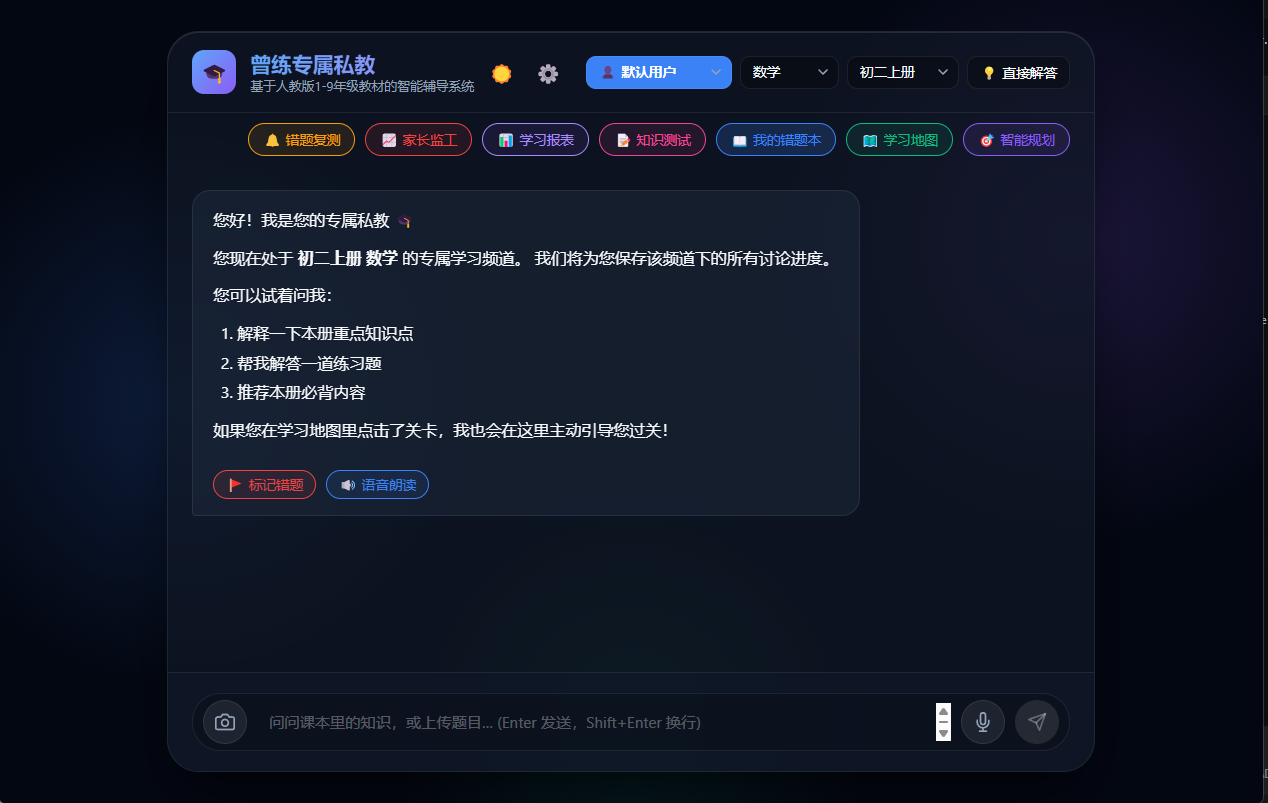
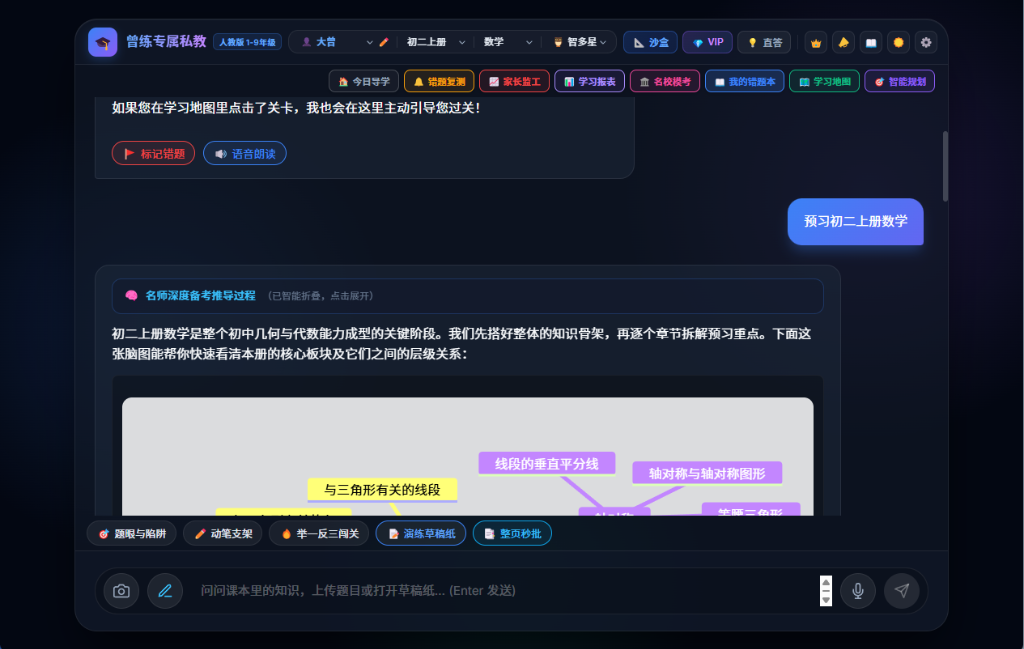
docs: revamp README and showcase latest product UI, APK release and feature matrix

diff --git a/README_en.md b/README_en.md
@@ -1,112 +1,134 @@
 <div align="center">
 
-# 🎓 EduAgent : AI Tutor for K-9 Education
+# 🎓 ZengLian AI Tutor (曾练专属私教)
 
-**An Open-Source, RAG-Powered AI Tutoring System specifically designed for K-9 Students**
+**The Next-Gen Open-Source RAG AI Tutoring System specifically tailored for K-9 Education**
+*Comprehensive K-9 Textbooks Knowledge Base · Dual-Modal Adaptive Mind Engines · Closed-Loop Learning System*
 
-[![React](https://img.shields.io/badge/Frontend-React-blue?style=flat-square&logo=react)](https://reactjs.org/)
-[![Node.js](https://img.shields.io/badge/Backend-Node.js-green?style=flat-square&logo=node.js)](https://nodejs.org/)
-[![Python](https://img.shields.io/badge/RAG-Python-yellow?style=flat-square&logo=python)](https://python.org/)
-[![Database](https://img.shields.io/badge/Vector_DB-LanceDB-orange?style=flat-square)](https://lancedb.com/)
+<br/>
+
+[![Download APK](https://img.shields.io/badge/📱_Android_APK-v1.0.0_Download_Now-2ea44f?style=for-the-badge&logo=android)](https://github.com/Zenglian990/AI_Tutor_Release/releases/download/v1.0.0-apk/ZengLian_AI_Tutor_v1.0.0.apk)
+[![Release](https://img.shields.io/github/v/release/Zenglian990/AI_Tutor_Release?style=for-the-badge&color=blue)](https://github.com/Zenglian990/AI_Tutor_Release/releases/tag/v1.0.0-apk)
+
+<br/>
+
+[![React](https://img.shields.io/badge/Frontend-React_18-blue?style=flat-square&logo=react)](https://reactjs.org/)
+[![Node.js](https://img.shields.io/badge/Backend-Node.js_Express-green?style=flat-square&logo=node.js)](https://nodejs.org/)
+[![Android](https://img.shields.io/badge/Mobile-Capacitor_Android-3DDC84?style=flat-square&logo=android)](https://capacitorjs.com/)
+[![RAG](https://img.shields.io/badge/RAG-LanceDB_Vector-orange?style=flat-square)](https://lancedb.com/)
+[![LLM](https://img.shields.io/badge/AI_Engine-Gemini_Flash-brightgreen?style=flat-square)](https://deepmind.google/technologies/gemini/)
 [![License: MIT](https://img.shields.io/badge/License-MIT-purple?style=flat-square)](https://opensource.org/licenses/MIT)
-[![CI Pipeline](https://github.com/Zenglian990/AI_Tutor_Release/actions/workflows/ci.yml/badge.svg)](https://github.com/Zenglian990/AI_Tutor_Release/actions)
 
-[**中文版**](README.md) | [**English**](README_en.md)
+[**中文文档**](README.md) | [**English**](README_en.md) | [**📱 APK Download**](https://github.com/Zenglian990/AI_Tutor_Release/releases/tag/v1.0.0-apk)
 
-*"Education equality is not just a slogan. We aim to bring top-tier AI private tutors to every ordinary household."*
+> *"Education equality is not just a slogan. We aim to bring top-tier AI private tutors to every ordinary household."*
 
 </div>
+
+---
+
+## 📱 Instant Experience on Android APK (Recommended)
+
+No complex development environments required. Install the native APK directly on your phone to experience the **immersive 9:16 portrait AI Tutor**:
+
+- **📥 Direct APK Download**: [ZengLian_AI_Tutor_v1.0.0.apk (~8.8MB)](https://github.com/Zenglian990/AI_Tutor_Release/releases/download/v1.0.0-apk/ZengLian_AI_Tutor_v1.0.0.apk)
+- **🏷 GitHub Releases**: [View Release Notes & Versions](https://github.com/Zenglian990/AI_Tutor_Release/releases/tag/v1.0.0-apk)
+- **✨ Mobile Highlights**: Strict 9:16 full-screen portrait lock, edge-to-edge notch screen support, plug-and-play tutoring.
 
 ---
 
 ## 📸 UI Showcase
 
 <div align="center">
-  <img src="docs/assets/ui-main.png" alt="UI Main" width="800"/>
+  <h3>🖥 1. Modern Guided Tutoring & Concept Mind Maps</h3>
+  <img src="docs/assets/ui-main.png" alt="Guided Tutoring & Main Interface" width="850"/>
+  <p><i>Deep step-by-step guidance, hierarchical mind maps, instant traps & clues breakdown, live scratchpad</i></p>
   <br/>
-  <img src="docs/assets/ui-settings.png" alt="UI Settings" width="800"/>
+
+  <h3>🗺 2. Interactive Gamified Learning Map</h3>
+  <img src="docs/assets/ui-map.png" alt="Gamified Learning Map" width="850"/>
+  <p><i>Chapter exploration islands, progressive stage unlock, turning repetitive homework into an adventure</i></p>
   <br/>
-  <img src="docs/assets/ui-levels.png" alt="UI Levels" width="800"/>
+
+  <h3>🧭 3. Semester Roadmap & Boss Stages</h3>
+  <img src="docs/assets/ui-roadmap.png" alt="Semester Roadmap" width="850"/>
+  <p><i>Full semester dungeon overview with clear targets, core theorems, and rigorous geometric proof advice</i></p>
+  <br/>
+
+  <h3>📝 4. Smart Mistake Notebook & Targeted Variation Sheets</h3>
+  <img src="docs/assets/ui-mistakes.png" alt="Mistake Notebook & Practice Sheets" width="850"/>
+  <p><i>Ebbinghaus review schedules, one-click printable A4 layout, AI-generated variant exercises</i></p>
+  <br/>
+
+  <h3>📊 5. Parent Supervision & Weekly Learning Diagnostics</h3>
+  <img src="docs/assets/ui-parent.png" alt="Parent Supervision Dashboard" width="850"/>
+  <p><i>Actionable analytics, weak spot identification, customized parenting guidance, printable teacher notes</i></p>
+  <br/>
+
+  <h3>🎨 6. Social Achievement Posters for WeChat / Social Media</h3>
+  <img src="docs/assets/ui-poster.png" alt="Social Achievement Poster" width="480"/>
+  <p><i>High-aesthetic social poster rendering with personal QR codes and motivational quotes</i></p>
 </div>
 
 ---
 
+## 🌟 Core Features
 
-## English Version
+**ZengLian AI Tutor** eliminates the drawbacks of traditional "homework search engines" that encourage rote copying. Utilizing large language models and LanceDB textbook vector knowledge bases, it establishes a true **"Learn - Practice - Test - Guide - Manage" closed-loop tutoring agent**:
 
-### 🎯 Overview
-**EduAgent** is an open-source, RAG-powered AI tutoring system specifically designed for K-9 students. Utilizing Google's Gemini models and LanceDB, it provides an adaptive, localized, and interactive educational experience.
+- 🧠 **Dual-Modal Teaching Engines for Grades 1-9**:
+  - **Grades 1-3 (Playful Mode)**: Lively language, encouraging tone, and vivid metaphors to nurture curiosity and focus.
+  - **Grades 4-9 (Logical Mode)**: Employs mind maps, multi-step derivation scaffolding, and rigorous counter-questioning.
+- 🗣 **Socratic Heuristic Tutoring**:
+  - Guides students step-by-step rather than spoon-feeding final answers.
+  - Features real-time Text-to-Speech (TTS), draft scratchpad, instant full-page correction, and trap analysis.
+- 🗺 **Gamified Knowledge Graph**:
+  - Maps complete textbook curricula into explorable stages and dungeons with progressive locks.
+- 📒 **Mistake Closed Loop & Targeted Variation Practice**:
+  - Automatically captures flawed concepts, generates parallel variations, and exports clean A4 test papers.
+- 📊 **Parent Supervision & Academic Diagnosis**:
+  - Generates comprehensive weekly reports with personalized parent follow-up recommendations.
+- 📱 **Cross-Platform Access**:
+  - **Web Application**: Immersive desktop multi-window experience.
+  - **Native Android APK**: Tailored for 9:16 portrait phones.
 
-"Education equality is not just a slogan. We aim to bring top-tier AI private tutors to every ordinary household."
+---
 
-### 🌟 Features
-
-EduAgent abandons the traditional "give the answer directly" model. Instead, it builds a true **guided agent** based on LLMs (Gemini) and precise vector databases (RAG):
-
-- 🧠 **Dual-Modal Teaching Engine**:
-  - **Grades 1-3 (Playful Mode)**: Lively language, encouraging tone, and metaphors to protect children's interest in learning.
-  - **Grades 4-9 (Logical Mode)**: Focuses on mind maps, logical deduction, and closed-loop mistake tracking.
-- 📚 **Precise RAG Knowledge Base**: Deeply integrates official K-9 textbook PDFs. All AI answers prioritize citing original textbook text, eliminating LLM "hallucinations".
-- 🗣 **Socratic Method**: It never gives the final answer immediately when encountering difficult problems. Instead, it guides the child to solve the problem independently through heuristic questioning (e.g., "What do you think we should calculate first?").
-- 📷 **Multi-modal Problem Search**: Supports uploading photos of homework. The AI automatically performs OCR parsing and provides step-by-step guidance.
-- 📒 **Smart Mistake Notebook**: Automatically tracks and records knowledge points where the child frequently makes mistakes, and supports one-click generation of variation exercise sheets.
-
-### 🛠 Tech Stack
+## 🛠 Tech Stack
 
 ```mermaid
 graph TD
-    A[React Client] -->|API Requests| B(Node.js Server)
-    B -->|Query & Context| C{Gemini LLM}
-    B -->|Search| D[(LanceDB Vector DB)]
-    D -->|Ingest| E[Python RAG Scripts]
-    E -->|Parse| F[1-9 Grade Textbooks PDF]
+    UserApp[📱 Native Android APK / 💻 Web Browser] -->|API Requests| Server(Node.js / Express Server)
+    Server -->|Vector Search| LanceDB[(LanceDB Vector DB)]
+    Server -->|Age-Adaptive Prompts| Gemini{Google Gemini LLM}
+    LanceDB -->|Fast Embeddings| PythonRAG[Python RAG Multimodal Ingestion]
+    PythonRAG -->|OCR & Chunking| Textbooks[1-9 Grade Textbooks Library]
 ```
 
-### 🚀 Quick Start
+---
 
-Thanks to our highly automated startup scripts, you **DO NOT** need to manually configure complex Node.js or Python dependencies.
+## 🚀 Quick Start for PC
 
-#### 1. Clone the repository
+With our automated startup scripts, you **DO NOT** need to manually configure complicated dependencies.
+
+### 1. Clone the repository
 ```bash
 git clone https://github.com/Zenglian990/AI_Tutor_Release.git
 cd AI_Tutor_Release
 ```
 
-#### 2. One-Click Start (Fully Automated)
-- **Windows**: Double-click to run `启动AI辅导.bat`
-- **Mac/Linux**: Run `sh start.sh` in your terminal
+### 2. One-Click Start (Fully Automated)
+- **Windows**: Double-click `启动AI辅导.bat`
+- **Mac/Linux**: Execute `sh start.sh` in your terminal
 
-> **🪄 Magic Experience**: The script will automatically check your Node.js environment, **download all backend/frontend dependencies, and build the React frontend automatically**.
-> On first run, it will **automatically prompt** you to enter your `Gemini API Key` (get one for free at Google AI Studio), and then start the server directly!
-
-The system will automatically open the main interface at `http://localhost:3001`.
-
-#### 3. About the Knowledge Base (RAG Textbook Data)
-
-We support two flexible setup methods:
-
-- **⚡ Option A: Instant Demo (Zero-Config Built-in Data)**
-  No Python setup required! Run directly in your terminal:
-  ```bash
-  npm run seed:demo
-  ```
-  This command seeds core curriculum chapters for Grades 1-9 (elementary math & Chinese, junior high rational numbers, Pythagorean theorem, physics acoustics, chemistry, etc.) into your local LanceDB instance with 768-dim vector alignment and FTS indexing. You can immediately test textbook-grounded RAG!
-
-- **📚 Option B: Full K-9 Textbook Ingestion (Batch PDF Processing)**
-  If you have the full set of K-9 PEP (人教版) textbook PDFs:
-  1. Install Python extraction dependencies:
-     ```bash
-     pip install -r requirements.txt
-     ```
-  2. Place your textbook PDFs into `data/textbooks/` (recommended naming format: `人教版_数学_七年级上册.pdf`).
-  3. Run the multimodal ingestion script:
-     ```bash
-     python scripts/ingest_2_0.py
-     ```
-  The pipeline utilizes EasyOCR / Gemini Vision to intelligently parse diagrams, formulas, and textbook structures into high-density vector chunks.
-
-## 🤝 Contributing
-We highly welcome contributions from community members! Whether you are a developer, an educator, or a parent, you are welcome to submit Pull Requests or open Issues. Let's work together to polish this tool and benefit more ordinary families.
+> The script automatically installs required dependencies, builds the frontend, and prompts for your `Gemini API Key` before opening `http://localhost:3001` in your browser.
 
 ---
-*Built with ❤ by 曾练 (Zeng Lian) & the Open Source Community*
+
+## 🤝 Contributing
+
+Contributions are warmly welcomed! Whether you are a developer, an educator, or a parent, feel free to open a Pull Request or file an Issue.
+
+---
+
+*Built with ❤ by Zeng Lian & the Open Source Community*

diff --git a/README.md b/README.md
@@ -1,87 +1,135 @@
 <div align="center">
 
-# 🎓 EduAgent : AI Tutor for K-9 Education
+# 🎓 曾练专属私教 (ZengLian AI Tutor)
 
-**国内首个专为 1-9 年级量身定制的开源 RAG AI 智能教辅系统**
+**国内首个专为 1-9 年级量身定制的开源 RAG AI 智能私教系统**
+*覆盖人教版 1-9 年级全学科知识库 · 双模态自适应心智教学 · 闭环提分体系*
 
-[![React](https://img.shields.io/badge/Frontend-React-blue?style=flat-square&logo=react)](https://reactjs.org/)
-[![Node.js](https://img.shields.io/badge/Backend-Node.js-green?style=flat-square&logo=node.js)](https://nodejs.org/)
-[![Python](https://img.shields.io/badge/RAG-Python-yellow?style=flat-square&logo=python)](https://python.org/)
-[![Database](https://img.shields.io/badge/Vector_DB-LanceDB-orange?style=flat-square)](https://lancedb.com/)
+<br/>
+
+[![Download APK](https://img.shields.io/badge/📱_Android_APK-v1.0.0_立即下载-2ea44f?style=for-the-badge&logo=android)](https://github.com/Zenglian990/AI_Tutor_Release/releases/download/v1.0.0-apk/ZengLian_AI_Tutor_v1.0.0.apk)
+[![Release](https://img.shields.io/github/v/release/Zenglian990/AI_Tutor_Release?style=for-the-badge&color=blue)](https://github.com/Zenglian990/AI_Tutor_Release/releases/tag/v1.0.0-apk)
+
+<br/>
+
+[![React](https://img.shields.io/badge/Frontend-React_18-blue?style=flat-square&logo=react)](https://reactjs.org/)
+[![Node.js](https://img.shields.io/badge/Backend-Node.js_Express-green?style=flat-square&logo=node.js)](https://nodejs.org/)
+[![Android](https://img.shields.io/badge/Mobile-Capacitor_Android-3DDC84?style=flat-square&logo=android)](https://capacitorjs.com/)
+[![RAG](https://img.shields.io/badge/RAG-LanceDB_Vector-orange?style=flat-square)](https://lancedb.com/)
+[![LLM](https://img.shields.io/badge/AI_Engine-Gemini_Flash-brightgreen?style=flat-square)](https://deepmind.google/technologies/gemini/)
 [![License: MIT](https://img.shields.io/badge/License-MIT-purple?style=flat-square)](https://opensource.org/licenses/MIT)
-[![CI Pipeline](https://github.com/Zenglian990/AI_Tutor_Release/actions/workflows/ci.yml/badge.svg)](https://github.com/Zenglian990/AI_Tutor_Release/actions)
 
-[**中文版**](README.md) | [**English**](README_en.md)
+[**中文文档**](README.md) | [**English**](README_en.md) | [**📱 APK 下载**](https://github.com/Zenglian990/AI_Tutor_Release/releases/tag/v1.0.0-apk)
 
-*“教育公平从来不是一句口号。让普通家庭的孩子，也能拥有最顶尖的专属私教。”*
+> *“教育公平从来不是一句口号。让普通家庭的孩子，也能拥有最顶尖的专属私教。”*
 
 </div>
 
 ---
 
-## 📸 界面预览 (UI Showcase)
+## 📱 手机端 APK 极速体验 (推荐)
+
+无需繁琐的电脑开发环境配置，手机直接下载安装即可体验专为手机端优化的 **9:16 竖屏全屏沉浸式私教**：
+
+- **📥 安装包直链下载**：[ZengLian_AI_Tutor_v1.0.0.apk (约 8.8MB)](https://github.com/Zenglian990/AI_Tutor_Release/releases/download/v1.0.0-apk/ZengLian_AI_Tutor_v1.0.0.apk)
+- **🏷 GitHub Release 页面**：[查看 Release 版本详情与更新说明](https://github.com/Zenglian990/AI_Tutor_Release/releases/tag/v1.0.0-apk)
+- **✨ 移动端特性**：原生 9:16 锁定竖屏全屏、异形水滴/刘海屏贴边适配、零配置即装即用。
+
+---
+
+## 📸 界面全景展示 (UI Showcase)
 
 <div align="center">
-  <img src="docs/assets/ui-main.png" alt="主界面演示" width="800"/>
+  <h3>🖥 1. 现代化名师导学与思维脑图</h3>
+  <img src="docs/assets/ui-main.png" alt="主辅导与智能导学界面" width="850"/>
+  <p><i>名师深度备考推导过程、思维脑图骨架自动展开、题眼与陷阱一键剖析、演练草稿纸与整页秒批</i></p>
   <br/>
-  <img src="docs/assets/ui-settings.png" alt="系统设置演示" width="800"/>
+
+  <h3>🗺 2. 关卡式互动学习地图</h3>
+  <img src="docs/assets/ui-map.png" alt="关卡式互动学习地图" width="850"/>
+  <p><i>章节探索小岛、循序渐进解锁通关、告别枯燥刷题，开启游戏化知识探险</i></p>
   <br/>
-  <img src="docs/assets/ui-levels.png" alt="年级选择演示" width="800"/>
+
+  <h3>🧭 3. 终极关卡与学期通关路线图</h3>
+  <img src="docs/assets/ui-roadmap.png" alt="学期通关路线图" width="850"/>
+  <p><i>全学期核心副本全景呈现、通关目标、实战秘籍与几何/代数证明严谨指引</i></p>
+  <br/>
+
+  <h3>📝 4. 专属智能错题本 & 靶向变式巩固卷</h3>
+  <img src="docs/assets/ui-mistakes.png" alt="专属错题本与变式练习" width="850"/>
+  <p><i>艾宾浩斯复习智能推送、一键生成 A4 错题排版试卷、AI 举一反三靶向变式强化</i></p>
+  <br/>
+
+  <h3>📊 5. 家长监工与本周深度学情报告</h3>
+  <img src="docs/assets/ui-parent.png" alt="家长监工与学情报告" width="850"/>
+  <p><i>学习数据诊断、薄弱点追踪、定制家校协同跟进建议、支持一键打印“家访便签”</i></p>
+  <br/>
+
+  <h3>🎨 6. 微信朋友圈学习成就海报</h3>
+  <img src="docs/assets/ui-poster.png" alt="微信朋友圈海报" width="480"/>
+  <p><i>一键渲染高颜值朋友圈分享战报，集成个人专属微信二维码与打卡励志金句</i></p>
 </div>
 
 ---
 
+## 🌟 核心杀手级特性 (Core Features)
 
-## 中文版
+「曾练专属私教」摒弃了市面上传统搜题软件“直接给答案抄袭”的应试弊端，基于大语言模型与 LanceDB 精准教材向量知识库构建了真正的**“学-练-测-辅-管”全闭环 AI 私教智能体**：
 
-### 🎯 项目概述 (Overview)
-**EduAgent** 是一款开源的、基于 RAG（检索增强生成）的 AI 辅导系统，专为 K-9（1-9年级）学生设计。利用大语言模型和 LanceDB 向量数据库，它提供了一种自适应的、本地化的和高度互动的教育体验。
+- 🧠 **1-9 年级分龄双模态心智引擎**：
+  - **1-3 年级（童趣萌芽模式）**：语言生动活泼、多比喻、多鼓励，保护孩子好奇心，建立专注习惯。
+  - **4-9 年级（逻辑严谨模式）**：引入思维脑图、多步推导支架、反向追问与防坑避雷，强化理性思维与几何/代数深层内功。
+- 🗣 **苏格拉底启发式交互（拒绝直接甩答案）**：
+  - 遇到难题绝不直接给答案，而是通过层层递进的提问引导孩子自主思考（“你觉得第一步应该先求什么？”）。
+  - 内置语音朗读（TTS）、演练草稿纸、整页秒批、题眼与陷阱专项剖析。
+- 🗺 **游戏化知识图谱与关卡地图**：
+  - 覆盖人教版 1-9 年级全学科章节图谱，将教材知识解构成探险副本。
+  - 支持开启自由探索与闯关锁定，激发孩子自主通关的内生驱动力。
+- 📒 **智能错题闭环与靶向变式卷**：
+  - **错题一键收录**：智能归类知识点盲区与失分原因。
+  - **靶向变式举一反三**：AI 动态生成同类变式题，确保真正搞懂本质。
+  - **A4 打印排版**：支持直接导出 A4 清爽试卷格式，线下练习无缝衔接。
+- 📊 **家长监工看板与每周深度学情诊断**：
+  - 自动追踪互动频次、攻克错题数、薄弱知识分布。
+  - 智能生成给家长的定制跟进建议（包括亲子沟通技巧与微习惯养成建议），可打印“家访便签”。
+- 📱 **全平台跨端体验**：
+  - **PC 网页端**：沉浸式大屏操作，多窗口分屏，适合书房学习与深度做题。
+  - **Android 原生端**：专为手机 9:16 竖屏优化，贴边全屏防误触，随身口袋私教。
 
-“教育公平从来不是一句口号。我们致力于将顶级的 AI 私人教师带入每一个普通家庭。”
+---
 
-### 🌟 核心特性 (Features)
-
-EduAgent 摒弃了传统的“直接给答案”模式，而是基于大模型（Gemini）与精准向量库（RAG）构建了真正的**引导式智能体**：
-
-- 🧠 **双模态教学引擎**：
-  - **1-3年级（童趣模式）**：语言生动活泼，多鼓励、多比喻，保护孩子学习兴趣。
-  - **4-9年级（逻辑模式）**：侧重思维导图、逻辑推演与错题闭环。
-- 📚 **精准 RAG 知识库**：深度集成人教版教材 PDF，所有 AI 回答强制优先引用课本原话，杜绝大模型“幻觉”。
-- 🗣 **苏格拉底提问法**：遇到难题不给最终答案，而是通过启发式提问（如“你觉得第一步应该先求什么？”）引导孩子自主解题。
-- 📷 **多模态搜题**：支持直接拍照上传作业题目，AI 自动进行 OCR 解析并分步指导。
-- 📒 **智能错题本**：后台自动追踪孩子反复出错的知识点并收录，支持一键生成“举一反三”变式练习卷。
-
-### 🛠 技术架构 (Tech Stack)
+## 🛠 技术架构 (Tech Stack)
 
 ```mermaid
 graph TD
-    A[React Client] -->|API Requests| B(Node.js Server)
-    B -->|Query & Context| C{Gemini LLM}
-    B -->|Search| D[(LanceDB Vector DB)]
-    D -->|Ingest| E[Python RAG Scripts]
-    E -->|Parse| F[1-9 Grade Textbooks PDF]
+    UserApp[📱 Android 原生 APK / 💻 Web 浏览器] -->|API 请求| Server(Node.js / Express 后端服务)
+    Server -->|教材向量检索| LanceDB[(LanceDB 向量知识库)]
+    Server -->|分龄 Prompt / 思维链| Gemini{Google Gemini 大模型}
+    LanceDB -->|本地高速向量入库| PythonRAG[Python RAG 多模态提取管道]
+    PythonRAG -->|OCR & 结构切片| Textbooks[人教版 1-9 年级教材库]
 ```
 
-### 🚀 快速开始 (Quick Start)
+---
 
-得益于我们高度自动化的启动脚本，您**不需要**手动配置复杂的 Node.js 和环境依赖。
+## 🚀 电脑端本地极速启动 (Quick Start for PC)
 
-#### 1. 克隆仓库
+得益于高度自动化的启动脚本，您**不需要**手动配置复杂的 Node.js 和环境依赖。
+
+### 1. 克隆仓库
 ```bash
 git clone https://github.com/Zenglian990/AI_Tutor_Release.git
 cd AI_Tutor_Release
 ```
 
-#### 2. 一键启动 (全自动构建)
+### 2. 一键启动 (全自动构建)
 - **Windows**: 双击运行 `启动AI辅导.bat`
 - **Mac/Linux**: 在终端执行 `sh start.sh`
 
-> **🪄 魔法体验**: 脚本会自动检查您的 Node.js 环境，并**全自动下载前后端依赖、打包构建前端页面**。
+> **🪄 自动化体验**: 脚本会自动检查您的 Node.js 环境，并**全自动下载前后端依赖、打包构建前端页面**。
 > 首次启动时，终端会**自动弹窗**请求输入您的 `Gemini API Key`（去 Google AI Studio 免费申请即可），然后直接启动服务！
+> 系统将在 `http://localhost:3001` 自动打开主界面。
 
-系统将在 `http://localhost:3001` 自动打开主界面。
-
-#### 3. 关于知识库 (RAG 课本数据)
+### 3. 关于知识库 (RAG 课本数据)
 
 系统提供**极速体验**与**全量教材入库**两种灵活方式：
 
@@ -105,8 +153,12 @@ cd AI_Tutor_Release
      ```
   脚本支持 EasyOCR / Gemini Vision 对课本插图、复杂数学公式排版的智能识别与切片。
 
+---
+
 ## 🤝 参与贡献 (Contributing)
+
 我们非常欢迎社区成员的参与！无论您是开发者、教育工作者还是家长，都欢迎提交 Pull Request 或提出 Issue。让我们共同把这个工具打磨得更好，惠及更多普通家庭。
 
 ---
+
 *由曾练与开源社区倾情打造 ❤ (Built with ❤ by Zeng Lian & the Open Source Community)*
